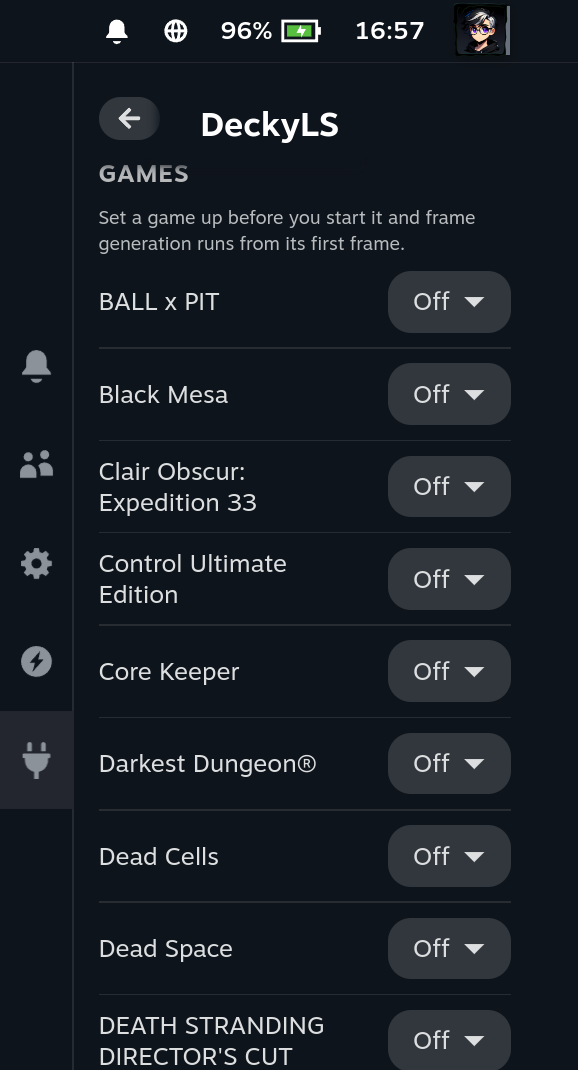
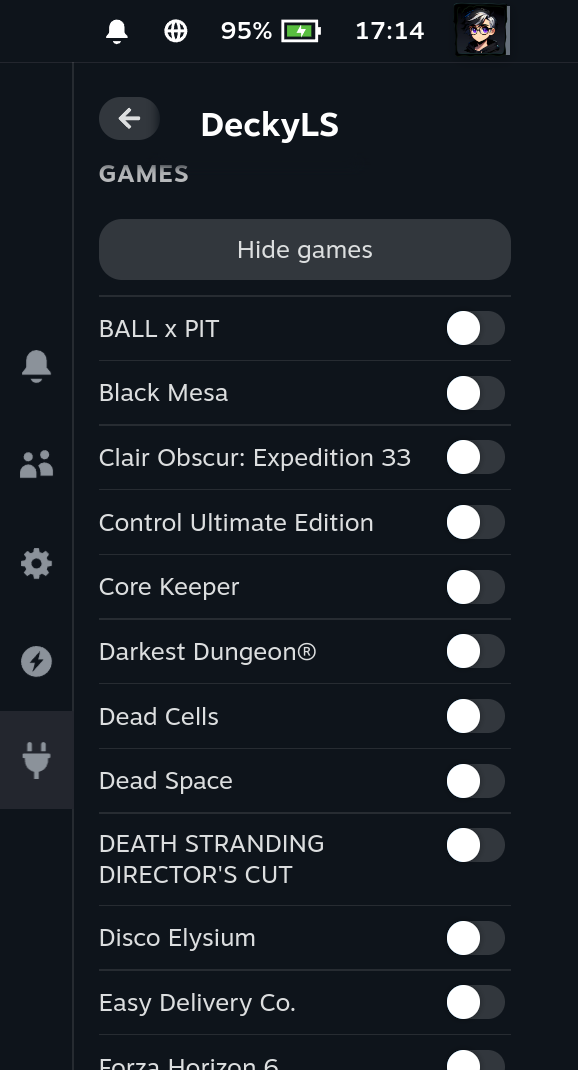
feat: 0.3.0 - folded games list with an On / Off switch per game
- Games stays folded until "Show games"; each game has an On / Off switch.
  On writes a 1x profile so lsfg-vk joins the game at its start; the
  multiplier is chosen live in the running game's section. Off removes the
  game from its profile (remove_profile), with a placeholder profile when the
  last one goes, as lsfg-vk rejects a file without profiles.
- Fix: set_profile/remove_profile return the state for the running game's
  own name, not the name of the game changed in the list.
- Fix: one pending save per game, so a switch flipped while a slider is still
  settling is no longer dropped.
- tools/device: stop_game.sh ends every process of a game (killing only the
  reaper left the game running); list_flow.sh runs the whole list flow.

diff --git a/src/index.tsx b/src/index.tsx
@@ -34,7 +34,8 @@ interface State {
 
 type GameArgs = [appid: number, name: string];
 const getState = callable<GameArgs, State>("get_state");
-const setProfile = callable<[string[], string, number, number, boolean, number], State>("set_profile");
+const setProfile = callable<[string[], string, number, number, boolean, ...GameArgs], State>("set_profile");
+const removeProfile = callable<[string[], ...GameArgs], State>("remove_profile");
 const installLsfg = callable<GameArgs, State>("install_lsfg");
 const removeLsfg = callable<GameArgs, State>("remove_lsfg");
 
@@ -70,27 +71,31 @@ function status(game: NonNullable<State["game"]>): string {
   return "Restart the game to start frame generation. lsfg-vk joins a game when it starts; OpenGL games are not supported.";
 }
 
-let saveTimer: ReturnType<typeof setTimeout> | undefined;
+// One pending save per game, so a slider still settling never swallows a switch flipped on another game.
+const saveTimers: Record<string, ReturnType<typeof setTimeout>> = {};
 
 const Content: FC = () => {
   const [state, setState] = useState<State | null>(null);
-  const [draft, setDraft] = useState<Record<string, Settings>>({});
+  // Unsaved changes per game (ids joined), shown at once; null = the game's switch was turned off.
+  const [draft, setDraft] = useState<Record<string, Settings | null>>({});
   const [confirmRemove, setConfirmRemove] = useState(false);
+  const [showGames, setShowGames] = useState(false);
 
   const refresh = useCallback(() => getState(...runningGame()).then(setState, () => {}), []);
   useEffect(() => {
     refresh();
     const timer = setInterval(refresh, REFRESH_MS);
-    return () => { clearInterval(timer); if (saveTimer) clearTimeout(saveTimer); };
+    return () => { clearInterval(timer); Object.values(saveTimers).forEach(clearTimeout); };
   }, [refresh]);
 
-  const save = useCallback((profile: { name: string; ids: string[] }, next: Settings, delay = 0) => {
+  const save = useCallback((profile: { name: string; ids: string[] }, next: Settings | null, delay = 0) => {
     const key = profile.ids.join("\n");
     setDraft(d => ({ ...d, [key]: next }));
-    if (saveTimer) clearTimeout(saveTimer);
-    saveTimer = setTimeout(() => {
-      saveTimer = undefined;
-      setProfile(profile.ids, profile.name, next.multiplier, next.flow_scale, next.performance_mode, runningGame()[0])
+    clearTimeout(saveTimers[key]);
+    saveTimers[key] = setTimeout(() => {
+      delete saveTimers[key];
+      (next ? setProfile(profile.ids, profile.name, next.multiplier, next.flow_scale, next.performance_mode, ...runningGame())
+        : removeProfile(profile.ids, ...runningGame()))
         .then(s => { setState(s); setDraft(d => { const { [key]: _, ...rest } = d; return rest; }); }, () => {});
     }, delay);
   }, []);
@@ -173,17 +178,20 @@ const Content: FC = () => {
       {others.length > 0 && (
         <PanelSection title="Games">
           <PanelSectionRow>
-            <div style={{ fontSize: "12px", color: "var(--gpSystemLighterGrey, #b8bcbf)" }}>
-              Set a game up before you start it and frame generation runs from its first frame.
-            </div>
+            <ButtonItem layout="below" onClick={() => setShowGames(v => !v)}
+              description={showGames ? undefined
+                : "Turn a game on before you start it; while it runs, choose 2×, 3× or 4× above."}>
+              {showGames ? "Hide games" : `Show games (${others.filter(e => e.settings).length} on)`}
+            </ButtonItem>
           </PanelSectionRow>
-          {others.map(e => {
-            const s = draft[e.ids.join("\n")] ?? e.settings ?? { ...DEFAULTS, multiplier: 1 };
+          {showGames && others.map(e => {
+            const key = e.ids.join("\n");
+            const s = key in draft ? draft[key] : e.settings;
             return (
-              <PanelSectionRow key={e.ids.join("\n")}>
-                <DropdownItem label={e.name || e.ids[0]} disabled={!installed || !!state.config_error}
-                  rgOptions={MULTIPLIERS} selectedOption={s.multiplier}
-                  onChange={o => save({ name: e.name || e.ids[0], ids: e.ids }, { ...s, multiplier: o.data })} />
+              <PanelSectionRow key={key}>
+                <ToggleField label={e.name || e.ids[0]} disabled={!installed || !!state.config_error} checked={!!s}
+                  description={s && s.multiplier > 1 ? `${s.multiplier}× frame generation` : s ? "Ready" : undefined}
+                  onChange={on => save({ name: e.name || e.ids[0], ids: e.ids }, on ? { ...DEFAULTS, multiplier: 1 } : null)} />
               </PanelSectionRow>
             );
           })}

diff --git a/main.py b/main.py
@@ -48,6 +48,10 @@ def _ids(appid, exe):
     return ids
 
 
+def _valid_ids(ids):
+    return isinstance(ids, list) and 1 <= len(ids) <= 8 and all(isinstance(i, str) and 0 < len(i) <= 128 for i in ids)
+
+
 def _view(profile):
     return {k: profile.get(k, v) for k, v in DEFAULTS.items()} | {"name": profile.get("name", ""),
                                                                     "ids": lsfg_config.profile_ids(profile)}
@@ -66,7 +70,7 @@ def _library(games, data):
                         "settings": _view(profile) if profile else None})
     for profile in data["profile"] if data else ():
         ids = lsfg_config.profile_ids(profile)
-        if ids and id(profile) not in matched:
+        if ids and id(profile) not in matched and not lsfg_config.is_placeholder(profile):
             entries.append({"appid": 0, "name": str(profile.get("name") or ids[0]), "ids": ids,
                             "settings": _view(profile)})
     return entries
@@ -119,28 +123,41 @@ class Plugin:
             }
         return state
 
-    async def set_profile(self, ids: list, name: str, multiplier: int, flow_scale: float, performance_mode: bool,
-                          appid: int = 0) -> dict:
-        """Create or change the profile matching ids; returns the new state for the running game appid."""
-        if (not isinstance(ids, list) or not 1 <= len(ids) <= 8
-                or not all(isinstance(i, str) and 0 < len(i) <= 128 for i in ids)
-                or not isinstance(name, str) or type(multiplier) is not int or multiplier not in MULTIPLIERS
-                or type(flow_scale) not in (int, float) or not math.isfinite(flow_scale)
-                or not 0.25 <= flow_scale <= 1.0 or not isinstance(performance_mode, bool)):
-            self.error = "Invalid settings were rejected."
-            return await self.get_state(appid, name)
+    async def _change(self, change, what, appid, game_name):
+        """Apply change(data) to the config file; returns the state for the running game (appid, game_name)."""
         async with self.lock:
             try:
                 data = lsfg_config.load(self.config_path)
-                lsfg_config.set_profile(data, name.strip()[:128] or ids[0], ids, multiplier,
-                                        round(float(flow_scale), 2), performance_mode)
+                change(data)
                 await asyncio.to_thread(lsfg_config.save, self.config_path, data)
                 self.error = ""
-                decky.logger.info(f"profile {ids}: x{multiplier} flow {flow_scale} performance {performance_mode}")
+                decky.logger.info(what)
             except (lsfg_config.ConfigError, OSError) as e:
                 self.error = str(e)
                 decky.logger.error(f"saving the lsfg-vk config failed: {e}")
-        return await self.get_state(appid, name)
+        return await self.get_state(appid, game_name)
+
+    async def set_profile(self, ids: list, name: str, multiplier: int, flow_scale: float, performance_mode: bool,
+                          appid: int = 0, game_name: str = "") -> dict:
+        """Create or change the profile matching ids."""
+        if (not _valid_ids(ids) or not isinstance(name, str)
+                or type(multiplier) is not int or multiplier not in MULTIPLIERS
+                or type(flow_scale) not in (int, float) or not math.isfinite(flow_scale)
+                or not 0.25 <= flow_scale <= 1.0 or not isinstance(performance_mode, bool)):
+            self.error = "Invalid settings were rejected."
+            return await self.get_state(appid, game_name)
+        return await self._change(
+            lambda data: lsfg_config.set_profile(data, name.strip()[:128] or ids[0], ids, multiplier,
+                                                 round(float(flow_scale), 2), performance_mode),
+            f"profile {ids}: x{multiplier} flow {flow_scale} performance {performance_mode}", appid, game_name)
+
+    async def remove_profile(self, ids: list, appid: int = 0, game_name: str = "") -> dict:
+        """Keep lsfg-vk out of the game matching ids (the list's switch turned off)."""
+        if not _valid_ids(ids):
+            self.error = "Invalid settings were rejected."
+            return await self.get_state(appid, game_name)
+        return await self._change(lambda data: lsfg_config.remove_ids(data, ids), f"profile {ids}: removed",
+                                  appid, game_name)
 
     async def install_lsfg(self, appid: int = 0, name: str = "") -> dict:
         async with self.lock:

diff --git a/lsfg_config.py b/lsfg_config.py
@@ -17,6 +17,8 @@ import tomllib
 
 VERSION = 2
 BACKUP_SUFFIX = ".bak-deckyls"
+# lsfg-vk rejects a file without profiles; this one stands in for the last removed game and matches nothing.
+PLACEHOLDER = {"name": "DeckyLS: no game", "active_in": "deckyls-no-game", "multiplier": 1}
 _BARE_KEY = re.compile(r"[A-Za-z0-9_-]+")
 
 
@@ -61,7 +63,27 @@ def find(data, ids):
     return next((p for p in data["profile"] if wanted & set(profile_ids(p))), None)
 
 
+def is_placeholder(profile):
+    return profile_ids(profile) == [PLACEHOLDER["active_in"]]
+
+
+def remove_ids(data, ids):
+    """Take ids out of every profile, so lsfg-vk stays out of that game; a profile left without ids goes."""
+    wanted = set(ids)
+    kept = []
+    for profile in data["profile"]:
+        known = profile_ids(profile)
+        rest = [i for i in known if i not in wanted]
+        if len(rest) == len(known):
+            kept.append(profile)
+        elif rest:
+            profile["active_in"] = rest[0] if len(rest) == 1 else rest
+            kept.append(profile)
+    data["profile"] = kept or [dict(PLACEHOLDER)]
+
+
 def set_profile(data, name, ids, multiplier, flow_scale, performance_mode):
+    data["profile"] = [p for p in data["profile"] if not is_placeholder(p)]
     profile = find(data, ids)
     if profile is None:
         profile = {"name": name, "active_in": ids[0] if len(ids) == 1 else list(ids)}

diff --git a/tests/test_main.py b/tests/test_main.py
@@ -5,6 +5,7 @@ import tomllib
 import unittest
 
 import _harness  # noqa: F401
+import lsfg_config
 import main
 
 
@@ -35,6 +36,16 @@ class MainTest(unittest.TestCase):
             state = self.call(*args)
             self.assertEqual(state["error"], "Invalid settings were rejected.", args)
         self.assertFalse(os.path.exists(self.plugin.config_path))
+
+    def test_list_switch_prepares_and_removes_a_game_without_touching_the_running_one(self):
+        self.call(["1145360"], "Hades", 1, 1.0, True, appid=1809540, game_name="Nine Sols")
+        state = asyncio.run(self.plugin.remove_profile(["1145360"], 1809540, "Nine Sols"))
+        self.assertEqual((state["error"], state["game"]["name"]), ("", "Nine Sols"))
+        with open(self.plugin.config_path, "rb") as f:
+            self.assertEqual(tomllib.load(f)["profile"], [lsfg_config.PLACEHOLDER])
+        self.assertFalse(any(e["name"] == lsfg_config.PLACEHOLDER["name"] for e in state["games"]))
+        bad = asyncio.run(self.plugin.remove_profile("1145360", 0, ""))
+        self.assertEqual(bad["error"], "Invalid settings were rejected.")
 
     def test_library_has_every_game_with_its_settings_and_unmatched_profiles(self):
         data = {"version": 2, "global": {}, "profile": [

diff --git a/tests/test_config.py b/tests/test_config.py
@@ -66,6 +66,20 @@ class ConfigTest(unittest.TestCase):
         self.assertEqual(p["active_in"], ["GenshinImpact.exe", "vkcube", "123"])
         self.assertEqual((p["multiplier"], p["pacing_mode"]), (1, "none"))
 
+    def test_turning_a_game_off_removes_only_its_ids_and_never_leaves_the_file_without_profiles(self):
+        self.write(USER_FILE)
+        data = c.load(self.path)
+        c.set_profile(data, "Nine Sols", ["1809540"], 1, 1.0, True)
+        c.remove_ids(data, ["vkcube"])
+        self.assertEqual(data["profile"][0]["active_in"], "GenshinImpact.exe", "the shared profile keeps its other game")
+        c.remove_ids(data, ["GenshinImpact.exe", "1809540"])
+        self.assertEqual(data["profile"], [c.PLACEHOLDER])
+        c.save(self.path, data)
+        self.assertTrue(c.is_placeholder(c.load(self.path)["profile"][0]))
+        data = c.load(self.path)
+        c.set_profile(data, "Hades", ["1145360"], 1, 1.0, True)
+        self.assertEqual([p["name"] for p in data["profile"]], ["Hades"], "the placeholder goes once a game is back")
+
     def test_unreadable_or_foreign_file_is_never_overwritten(self):
         for text in ("version = 2\n[global\n", "version = 1\n", "version = 2\nglobal = 3\n"):
             self.write(text)

diff --git a/README.md b/README.md
@@ -28,7 +28,7 @@ for the running game and tells you whether frame generation really runs.
 |---|---|
 | **One-tap setup** | Installs the official lsfg-vk 2.0.0 from its author's site and checks it against a pinned hash |
 | **One menu** | Frame generation **Off / 2× / 3× / 4×**, flow scale and performance mode for the game you are playing |
-| **All your games** | Every installed game in alphabetical order, Steam and non-Steam, ready to set up before you start it |
+| **All your games** | Every installed game in alphabetical order, Steam and non-Steam, with an On / Off switch to prepare it before you start it |
 | **Live changes** | Every change reaches the running game within a second |
 | **No launch options** | Your games' launch options stay untouched, so other launch-option tools keep working |
 | **Honest status** | Shows whether lsfg-vk joined the game and how it found it, lsfg-vk's own health check, a missing Lossless Scaling or the wrong Steam branch |
@@ -74,24 +74,26 @@ uninstall plus install, so the plugin never removes lsfg-vk on its own. Your gam
 
 <a href="docs/screenshots/panel.png"><img src="docs/screenshots/panel.png" alt="DeckyLS in the Quick Access Menu while Nine Sols runs at 3×" width="360"></a>
 
-1. Open **Quick Access Menu → DeckyLS** and, under **Games**, set your game to **2×**.
-2. Start the game. Frame generation runs from its first frame.
-3. While it runs, the game is at the top of the panel: change the multiplier, **Flow scale** or
-   **Performance mode**, or turn it **Off**; every change applies live.
-4. **Status** shows **On** when lsfg-vk runs in the game.
+1. Open **Quick Access Menu → DeckyLS → Show games** and turn your game **On**. lsfg-vk is now
+   ready in it; frame generation itself stays at 1×.
+2. Start the game and open DeckyLS again. The game is at the top of the panel: choose **2×**, **3×**
+   or **4×**, and adjust **Flow scale** and **Performance mode**. Every change applies live.
+3. **Status** shows **On** when frame generation runs in the game.
 
-lsfg-vk joins a game when it starts. If you turn frame generation on for a game that is already
-running and was never set up, restart it once. **Off** keeps the game's settings and lsfg-vk stays
-ready in it, so turning it on again later works live.
+**Off** in the game's menu stops frame generation but keeps lsfg-vk ready, so turning it on again
+later works live. **Off** in the games list keeps lsfg-vk out of the game completely.
 
-<a href="docs/screenshots/games.png"><img src="docs/screenshots/games.png" alt="Games: every installed game in alphabetical order with its own switch" width="360"></a>
+lsfg-vk joins a game when it starts. If you choose a multiplier for a game that is already running
+and was never turned on in the list, restart it once.
+
+<a href="docs/screenshots/games.png"><img src="docs/screenshots/games.png" alt="Games, expanded: every installed game in alphabetical order with an On / Off switch" width="360"></a>
 
 | Status | Meaning |
 |---|---|
 | On: lsfg-vk is running in this game | Frame generation runs; the panel says how lsfg-vk recognised the game |
-| Restart the game to start frame generation | The game was started before frame generation was turned on for it |
+| Restart the game to start frame generation | The game was started before it was turned on in the games list |
 | lsfg-vk uses the profile "…" for this game | Another profile matches the game first (for example one made by another tool); change that one under **Games** |
-| Off | Frame generation is off for this game |
+| Off | Frame generation is off for this game; choose 2×, 3× or 4× to start it |
 
 **Tips:** frame generation needs a steady base frame rate; cap the game a little below what it
 reaches (for example 40 fps for 80 fps at 2×). Lower **Flow scale** costs less GPU time, higher
@@ -138,8 +140,10 @@ The **Games** list comes from Steam's own files, without starting anything: the 
 every Steam library (internal drive and SD card; Proton, Steam Linux Runtime and Lossless Scaling
 itself are left out) and the non-Steam shortcuts in `shortcuts.vdf`. Non-Steam games also get their
 executable name (for example `"Game.exe"`) from the shortcut, or from the command line Steam
-started them with. **Off** is `multiplier = 1`, lsfg-vk's own off switch, so the profile
-and its settings stay and the file never ends up without profiles, which lsfg-vk would reject.
+started them with. A game turned **On** in the list gets a profile with `multiplier = 1`, lsfg-vk's own
+off switch: lsfg-vk joins the game at its start but generates no frames until you choose 2× or more.
+**Off** in the list removes the game from its profile. lsfg-vk rejects a file without profiles, so
+when the last game goes, a placeholder profile that matches no game takes its place.
 Everything else in the file, including profiles from other tools, is written back unchanged and
 checked by reading the result back before it replaces the file; comments are not kept, so your
 original file is copied once to `conf.toml.bak-deckyls`.

diff --git a/CHANGELOG.md b/CHANGELOG.md
@@ -2,6 +2,20 @@
 
 All notable changes to DeckyLS, newest first.
 
+## [0.3.0] - 2026-10-25
+
+### Changed
+
+- **Games** is folded away until you press **Show games**, and each game has an **On / Off** switch
+  instead of a multiplier. On makes lsfg-vk ready in the game (frame generation stays at 1×); once it
+  runs, choose 2×, 3× or 4× at the top of the panel and it applies live. Off keeps lsfg-vk out of the
+  game completely.
+
+### Fixed
+
+- Changing a game in the list no longer shows that game's name over the running game for a moment.
+- A switch flipped while a slider was still saving is no longer lost.
+
 ## [0.2.0] - 2026-10-25
 
 ### Added
